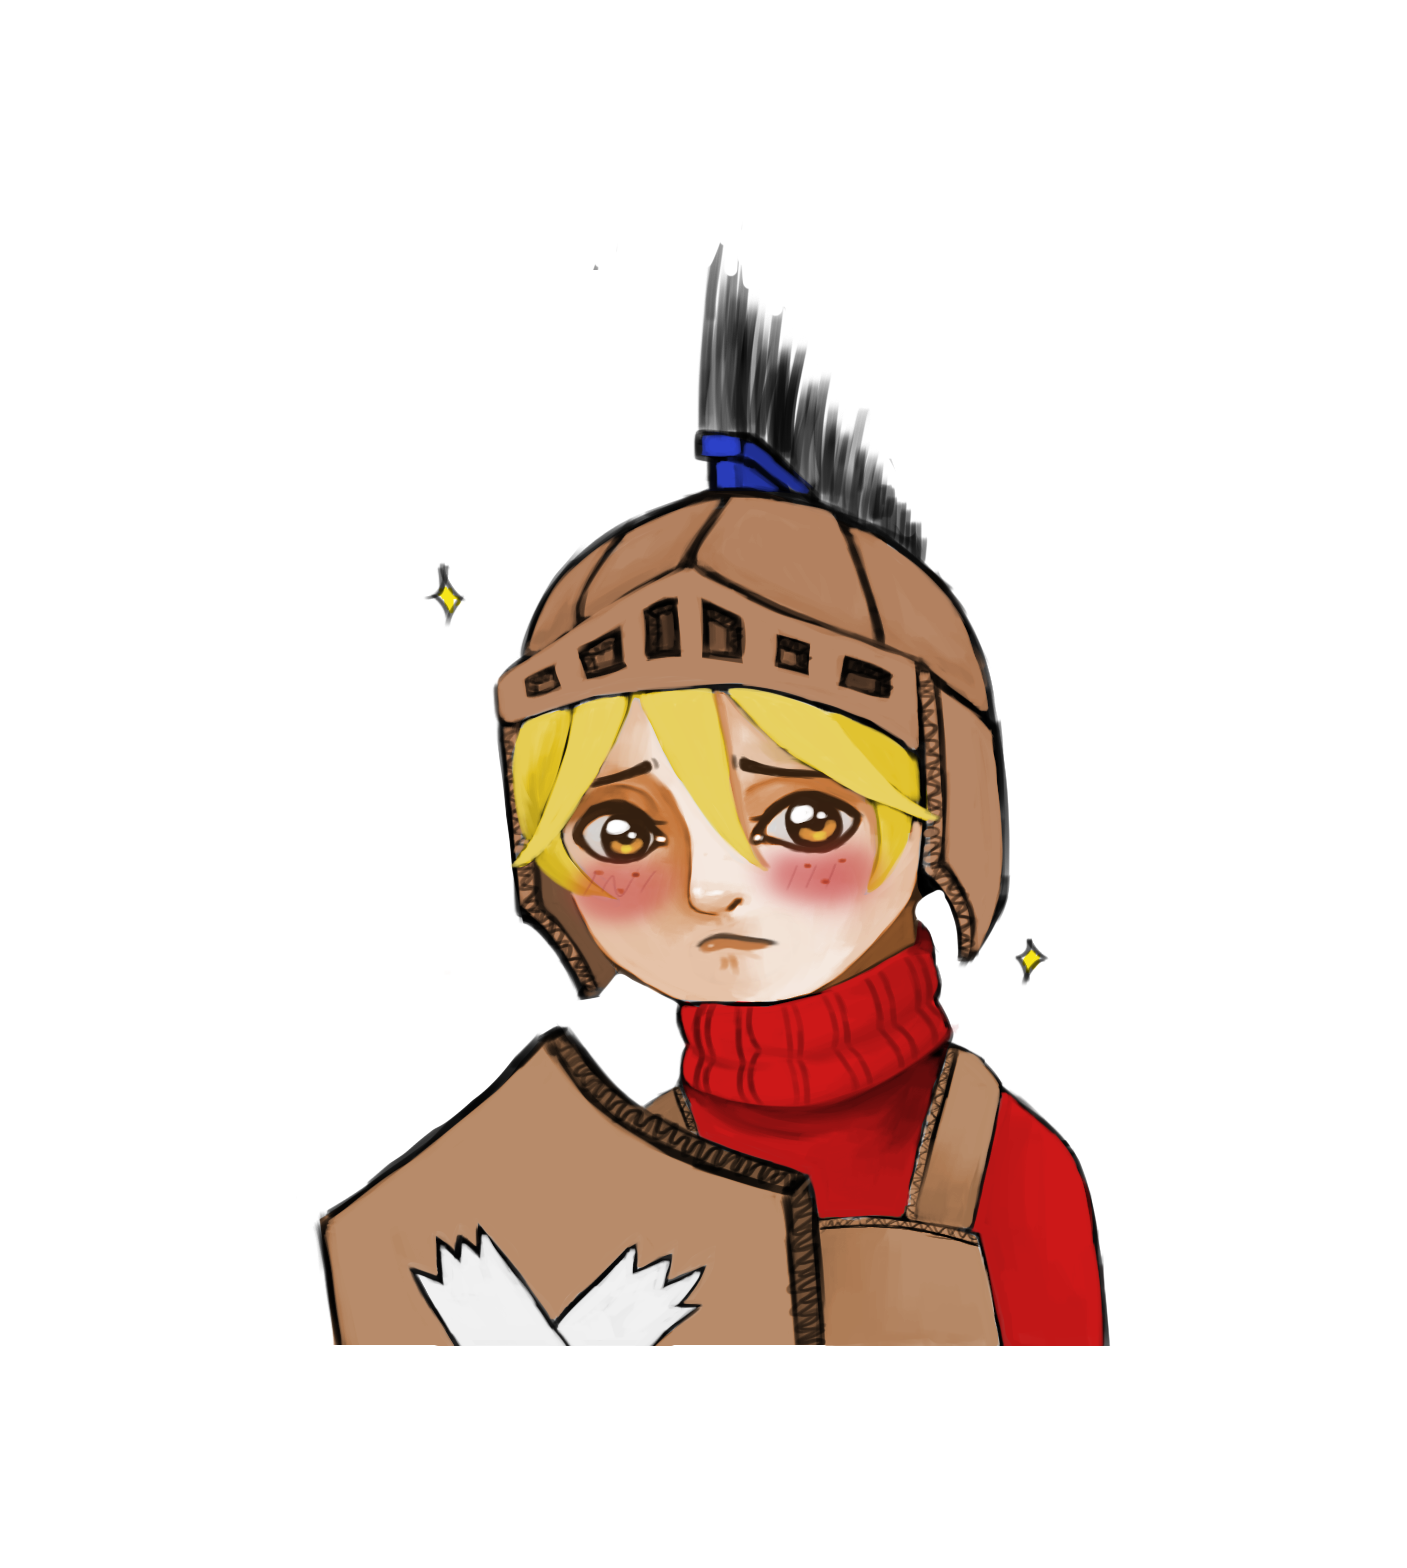
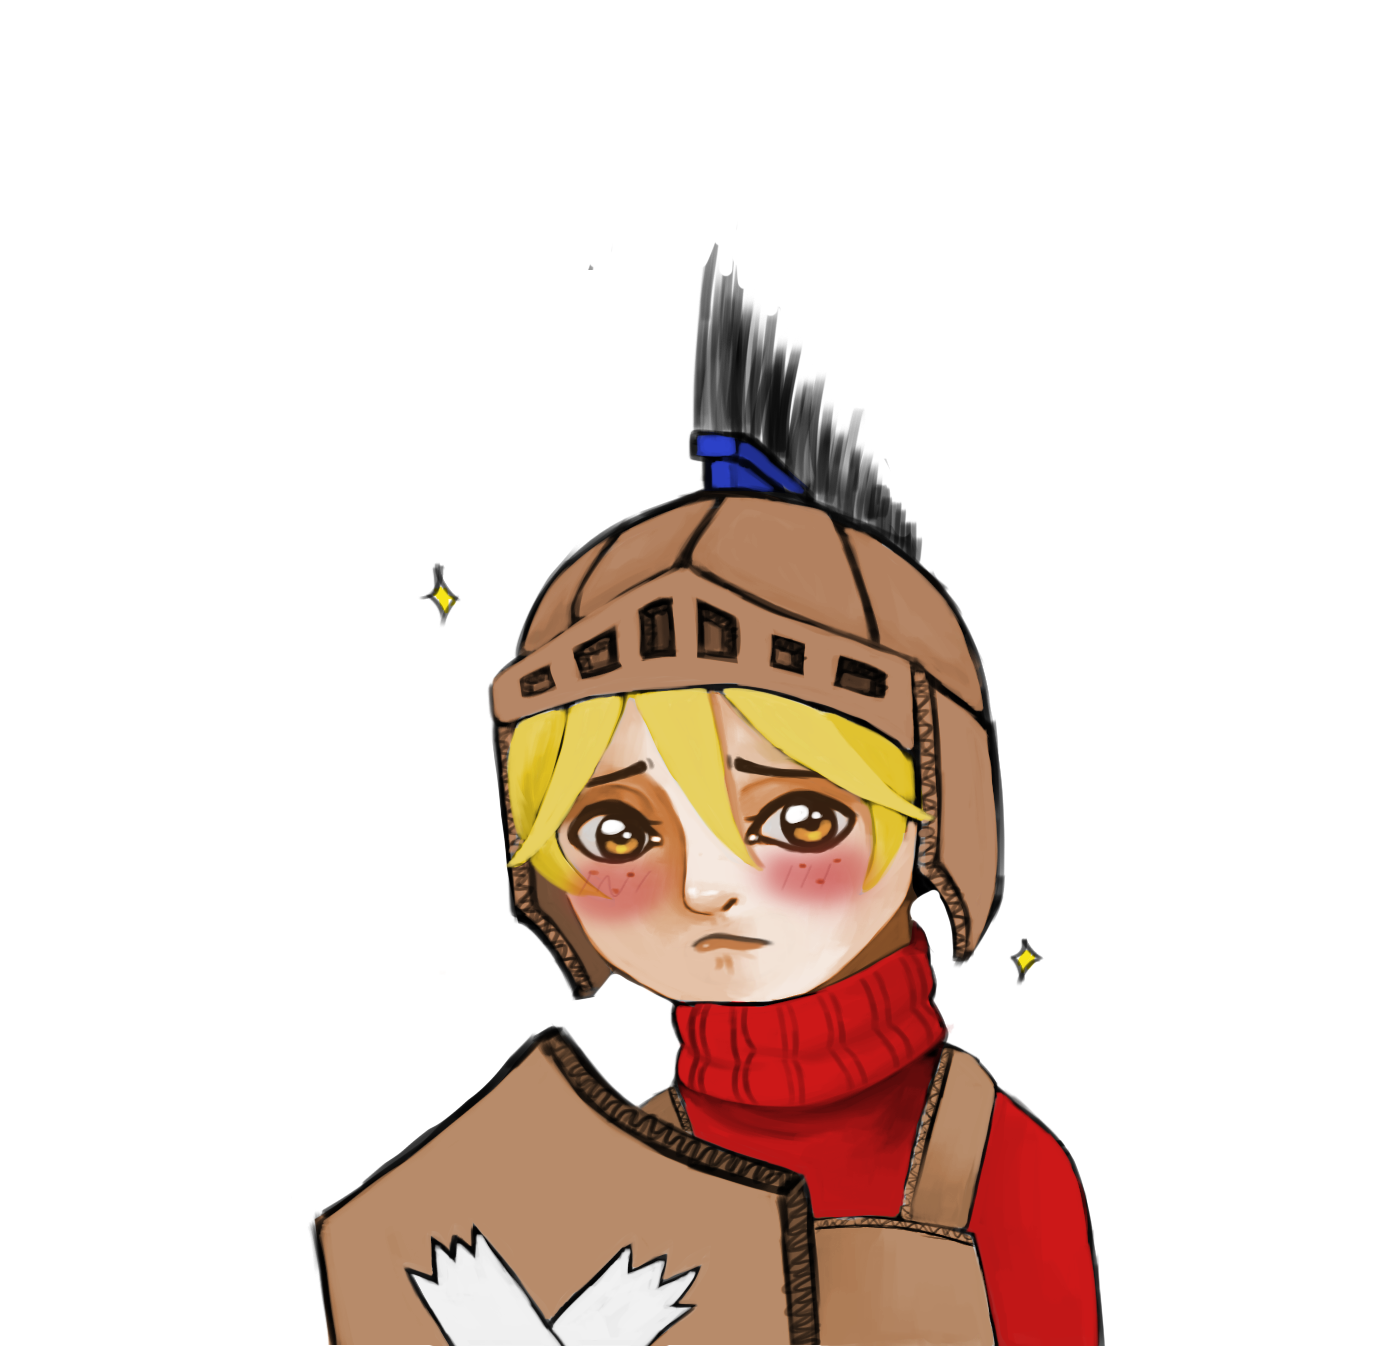
made all images scale by end of body and fixed a few bugs with checkpoint AND freeze position dialogue

Changed region(s): [[0.2156, 0.1558, 0.8009, 1.0]]

diff --git a/VGDA_Fall18_Project/Assets/_Script/_UI/DialogueManager.cs b/VGDA_Fall18_Project/Assets/_Script/_UI/DialogueManager.cs
@@ -67,6 +67,7 @@ public class DialogueManager : MonoBehaviour
         if (sentences.Count == 0)
         {
             EndDialogue();
+            player.GetComponent<Player>().enabled = true;
             return;
         }
         string name = names.Dequeue();
@@ -107,9 +108,10 @@ public class DialogueManager : MonoBehaviour
      * is set to false and the dialogue box is closed.
      */
     public void EndDialogue() {
-        FindObjectOfType<DialogueTrigger>().isTriggered = false;                    // sets trigger to false so the player can talk to the NPC again
-        FindObjectOfType<DialogueTriggerPlayer>().isTriggered = false;
+        if (!FindObjectOfType<DialogueTrigger>().dialogue.DialogueIsCheckpoint) {
+            FindObjectOfType<DialogueTrigger>().isTriggered = false;                    // sets trigger to false so the player can talk to the NPC again if it is not a checkpoint
+            FindObjectOfType<DialogueTriggerPlayer>().isTriggered = false;
+        }
         animator.SetBool("IsOpen", false);
-        player.GetComponent<Player>().enabled = true;
     }
 }

diff --git a/VGDA_Fall18_Project/Assets/_Script/_UI/DialogueTrigger.cs b/VGDA_Fall18_Project/Assets/_Script/_UI/DialogueTrigger.cs
@@ -16,10 +16,11 @@ public class DialogueTrigger : MonoBehaviour
     {
         float npcPosition = NPC.transform.position.x;
         float playerPosition = Player.transform.position.x;
-        float distanceBetween = Mathf.Abs(npcPosition - playerPosition);
+        
         if (dialogue.DialogueIsCheckpoint)
         {
-            if (playerPosition >= CheckPoint)
+            float distanceBetween = Mathf.Abs(CheckPoint - playerPosition);
+            if (distanceBetween < InteractDistance)
             {// works if and only if player is close enough
                 if (!isTriggered)
                 {
@@ -29,6 +30,7 @@ public class DialogueTrigger : MonoBehaviour
             }
         }
         else {
+            float distanceBetween = Mathf.Abs(npcPosition - playerPosition);
             if (Input.GetButtonDown("InteractNPC") && (distanceBetween < InteractDistance))
             {// works if and only if player intends to talk to npc and they're close enough
                 if (!isTriggered)
